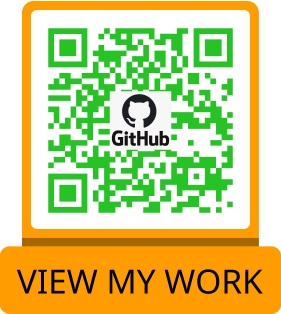
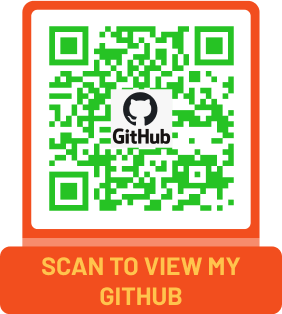
QR code updated

diff --git a/my-project/Components/MainTitle/MainTitle.jsx b/my-project/Components/MainTitle/MainTitle.jsx
@@ -5,8 +5,10 @@ export default function MainTitle() {
             <div className="justify-center w-[100%]">
                 <div className="flex items-center justify-center mt-10 sm:flex-col sm:text-2xl  sm:mt-[10em] sm:ml-[4em] sm:w-[100%] uppercase">
                     <div className={Style.Titles}>
-                    <h1 className="text-5xl text-center sm:text-left sm:text-7xl w-[100%] drop-shadow-2xl text-[#E49315]" >Amira Gucher-Blackman</h1>
-                    <h2 className="text-4xl text-center sm:text-5xl sm:text-left drop-shadow-8xl text-[#a83028]">Full-Stack Developer</h2>
+                        <div className={Style.Name}>
+                    <h1 className="text-5xl text-center sm:text-left sm:text-7xl w-[100%] drop-shadow-2xl text-[#FFC44D]" >Amira Gucher-Blackman</h1>
+                    </div>
+                    <h2 className="text-4xl text-center sm:text-5xl sm:text-left drop-shadow-8xl text-[#F24E1E]">Full-Stack Developer</h2>
                 </div>
                 </div>
                 <div className="flex justify-center items-center">

diff --git a/my-project/Components/AboutMe/AboutMe.jsx b/my-project/Components/AboutMe/AboutMe.jsx
@@ -1,9 +1,11 @@
+import Style from "../MainTitle/Text.module.css"
+
 export default function AboutMe (){
     return (
        
-        <div id="aboutme" className="flex-col pt-[4em] bg-red-700 drop-shadow-lg text-white font-bold p-5 h-full  w-full">
-            <div>
-            <h1 className="text-5xl  sm:text-7xl w-[100%] drop-shadow-2xl text-white">About Me</h1>
+        <div id="aboutme" className="flex-col pt-[4em] bg-[#F24E1E] drop-shadow-lg text-[#FFC44D] font-bold p-5 h-full  w-full">
+            <div className={Style.Titles}>
+            <h1 className="text-5xl  sm:text-7xl w-[100%] drop-shadow-2xl text-[#FFC44D]">About Me</h1>
             </div>
             <p>Prior to studying at the School of Code my studies evolved around
                 Art and Design, and then Psychology. During the bootcamp I found

diff --git a/my-project/Components/MainTitle/Text.module.css b/my-project/Components/MainTitle/Text.module.css
@@ -1,12 +1,18 @@
 .Titles{
     text-shadow: 5px 5px 5px rgba(0, 0, 0, 0.25);    
     font-style: italic;
+    font-family: 'Barlow Condensed', sans-serif;    
     font-weight: 900;
     font-size: 60px;
     line-height: 72px;
-    -webkit-text-stroke-width: 1px;
-    -webkit-text-stroke-color: black;
+    font-weight: bold;
+    
 }
+/* 
+.Name{
+    -webkit-text-stroke-width: 1px;
+    -webkit-text-stroke-color: #F24E1E;
+} */
 
 .NavText{
     text-shadow: 5px 5px 5px rgba(0, 0, 0, 0.25);    
